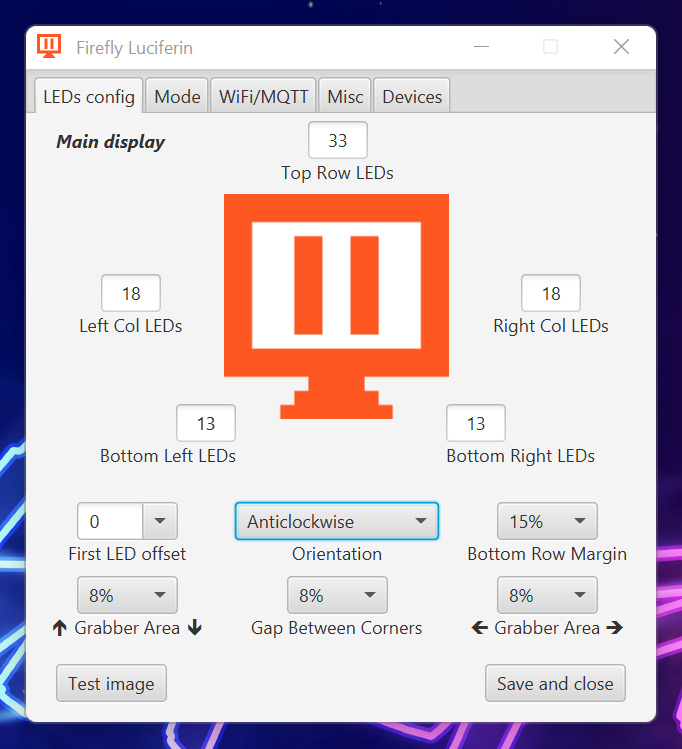
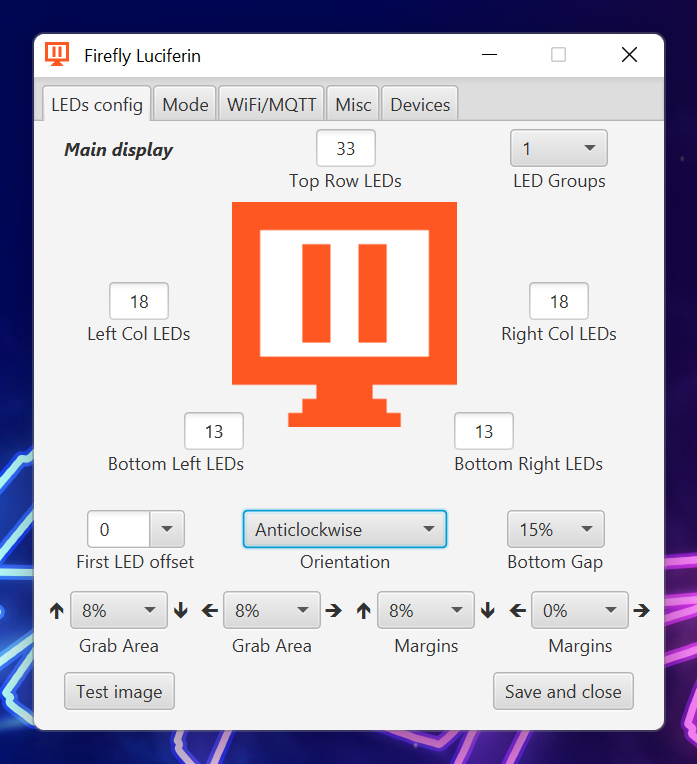
new image

diff --git a/src/main/java/org/dpsoftware/grabber/GStreamerGrabber.java b/src/main/java/org/dpsoftware/grabber/GStreamerGrabber.java
@@ -144,8 +144,8 @@ public class GStreamerGrabber extends javax.swing.JComponent {
                     int pixelInUseY = value.getHeight() / Constants.RESAMPLING_FACTOR;
                     if (!value.isGroupedLed()) {
                         // We start with a negative offset
-                        for (int x = 0; x < pixelInUseX; x++) {
-                            for (int y = 0; y < pixelInUseY; y++) {
+                        for (int y = 0; y < pixelInUseY; y++) {
+                            for (int x = 0; x < pixelInUseX; x++) {
                                 int offsetX = (xCoordinate + (skipPixel * x));
                                 int offsetY = (yCoordinate + (skipPixel * y));
                                 int bufferOffset = (Math.min(offsetX, width))

diff --git a/docs/index.md b/docs/index.md
@@ -18,18 +18,27 @@
 
 ### In this release:
 
+- ***Breaking changes***: requires `Glow Worm Luciferin` firmware (v5.5.8).
+- **Capture enhancements.** Bias Light effect is now smoother than before with default settings. The change/transition between the brightness steps is now more linear.
+- **Added an option to group LEDs.** The more LEDs you group, the more smooth is the Bias Light effect. Grouping LEDs afflicts precision.
+- **Bottom row split adjustment is now possible.** You can now configure the gap size. (Closes #69).
+- **Grabber area adjustment.** You can now choose the size of the grab area. (Closes #68).
+- **LED corner skip.** The corners now have a horizontal and vertical adjustment feature for the gap. (Closes #67).
+- **Color temperature correction no longer affect microcontroller's performance.** Microcontroller's performance has been improved by 40% when using color temperature correction.
+- **Added more gamma steps** for a better fine tuning of the gamma.
+- Fixed an issue that prevented screen capture when on some resolutions with some LEDs configurations. If you encountered this issue, no more black LEDs when capturing the screen.
+- Audio functionality broke when changing the UI language, fixed.
+- Fixed language typos.
+
+### In the previous release:
+
 - ***Breaking changes***: requires `Glow Worm Luciferin` firmware (v5.5.7).
-- **Added support for RGBW strips.**  
-- Misc tab now offers a **slider to fine tune White Balance**.  
-- **Web Installer now asks for WiFi credentials**, first configuration is now much easyer.  
-- Added 115200 baudrate support, it's now possible to configure baudrate from the Web Interface.  
-- Home Assistant integration update, please copy and paste the new configuration.  
+- **Added support for RGBW strips.**
+- Misc tab now offers a **slider to fine tune White Balance**.
+- **Web Installer now asks for WiFi credentials**, first configuration is now much easyer.
+- Added 115200 baudrate support, it's now possible to configure baudrate from the Web Interface.
+- Home Assistant integration update, please copy and paste the new configuration.
 - Added Français. (Thanks @Deadrix).
 - Various bug fixes, memory leak fixes, and other stability and reliability improvements.
 - Arduino Bootstrapper update (v.1.12.10).
 - PlatformIO Version Increment update (v0.1.6).
-
-### In the previous release:
-
-- Hotfix: Capture is abruptly interrupted when using Full firmware, UDP stream, no MQTT. Fixed.  
-  Firmware upgrade is not required.
